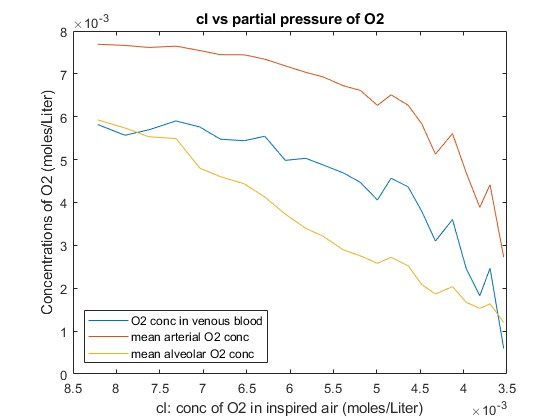
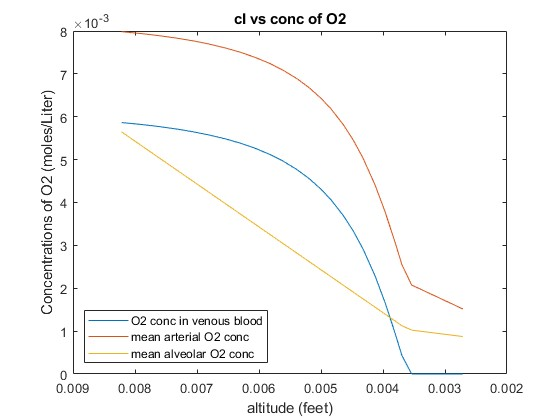
task 5
Scott skalak
task 5

diff --git a/lung.m b/lung.m
@@ -1,11 +1,17 @@
 %filename: lung.m (main program)
-clear all
+%clear all
 close all
 clf
 global Pstar cstar n maxcount M Q camax RT cI;
 
+%After running setup_lung once I commented out lines 60-74 on setup_lung.
+%This is so there is no random initiaization and I use constant ventilation
+%vs perfursion for the tasks now to better compare someone used to sealevel
+%or altitude without the randomness affecting my numbers
+
 %using percent O2 at various altitudes to then do task 6 next easily 
-O2percents = [20.9 20.1 19.4 18.6 17.9 17.3 16.6 16.0 15.4 14.8 14.3 13.7 13.2 12.7 12.3 11.8 11.4 11.0 10.5 10.1 9.7 9.4 9.0 ]/100;
+O2percents = [20.9 20.1 19.4 18.6 17.9 17.3 16.6 16.0 15.4 14.8 14.3 13.7 13.2 12.7 12.3 11.8 11.4 11.0 10.5 10.1 9.7 9.4 9.0 8.7 8.4 8.1 7.8 7.5 7.2 6.9]/100;
+%altitude = 0:1000:29000;
 
 for i=1:length(O2percents)
 
@@ -15,7 +21,6 @@ cI = O2percents(i)/(22.4*(310/273));
 setup_lung
 cvsolve
 outchecklung
-
 PIlist(i) = PI;
 Palist(i)=Pabar;
 PAlist(i)=PAbar;
@@ -31,26 +36,28 @@ cAbarlist(i) = cAbar;
 cIlist(i) = cI
 end
 
-%plotting PI vs mean partial pressures
-figure('NumberTitle', 'off', 'Name', 'cI vs O2 Pressure');
+%plotting cI vs mean partial pressures
+figure('NumberTitle', 'off', 'Name', 'altitude vs O2 Pressure');
 plot(cIlist, Palist);
 hold on
 plot(cIlist, PAlist);
 plot(cIlist, Pvlist); 
-set ( gca, 'xdir', 'reverse' )
 legend('mean arterial O2 partial pressure','mean alveolar O2 partial pressure','O2 partial pressure in venous blood')
-xlabel('cI: conc of O2 in inspired air (moles/Liter')
+xlabel('altitude (feet)')
+ set(gca, 'XTickLabel',get(gca,'XTick')) 
+ set ( gca, 'xdir', 'reverse' )
 ylabel('Partial pressures of O2 (mmHg)')
 title('cI vs partial pressure of O2')
 
-%plotting PI vs mean o2 concentrations
-figure('NumberTitle', 'off', 'Name', 'cI vs O2 Conc');
+%plotting cI vs mean o2 concentrations
+figure('NumberTitle', 'off', 'Name', 'altitude vs O2 Conc');
 plot(cIlist, cvlist);
 hold on
 plot(cIlist, cabarList);
 plot(cIlist, cAbarlist); 
-set ( gca, 'xdir', 'reverse' )
 legend('O2 conc in venous blood','mean arterial O2 conc','mean alveolar O2 conc','Location', 'southwest')
-xlabel('cI: conc of O2 in inspired air (moles/Liter)')
+xlabel('altitude (feet)')
 ylabel('Concentrations of O2 (moles/Liter)')
-title('cI vs partial pressure of O2')
+ set(gca, 'XTickLabel',get(gca,'XTick')) 
+ set ( gca, 'xdir', 'reverse' )
+title('cI vs conc of O2')

diff --git a/cvsolve.m b/cvsolve.m
@@ -1,8 +1,12 @@
 %filename: cvsolve.m
-if(Mdiff(0,r)>0)
+
+%i commented that out so that the code will continue running even when
+%there is not enough O2 consumption
+
+%if(Mdiff(0,r)>0)
   %stop program and issue error message:
-  error('M is too large')
-end
+ % error('M is too large')
+%end
 
 %initialize:
 cv_lower=0;            %lower limit of interval
@@ -14,11 +18,11 @@ for count=1:maxcount
   %check sign of Mdiff at midpoint of interval
   pos=(Mdiff(cv,r)>0);
   neg=~pos;
-  
+
   %if(pos) cv_upper=cv; else cv_lower=cv:
   cv_upper=cv_upper*neg+cv*pos 
   cv_lower=cv_lower*pos+cv*neg 
-  
+
   %set cv=midpoint of current interval:
   cv=(cv_lower+cv_upper)/2;
 end

diff --git a/setup_lung.m b/setup_lung.m
@@ -11,7 +11,7 @@ maxcount=20
 n=100
 %
 %reference oxygen concentration (moles/liter):
-cref=0.2/(22.4*(310/273))
+cref=0.209/(22.4*(310/273))
 %cref=concentration of oxygen 
 %in air at sea level at body temperature
 %
@@ -57,6 +57,7 @@ VAbar=VAtotal/n
 %expected perfusion per alveolus: 
 Qbar=Qtotal/n 
 
+%{
 a1=-log(rand(n,1));
 a2=-log(rand(n,1));
 av=(a1+a2)/2;        
@@ -64,11 +65,12 @@ VA=VAbar*(a1*beta+av*(1-beta));
 Q = Qbar*(a2*beta+av*(1-beta));
 r=VA./Q;
 figure(1)
-%plot(Q,VA,'.')
+plot(Q,VA,'.')
 
 %find actual values of 
 %VAtotal, Qtotal, VAbar, and Qbar:
 VAtotal=sum(VA)
 Qtotal =sum(Q)
 VAbar=VAtotal/n
- Qbar= Qtotal/n
+Qbar= Qtotal/n
+%}
